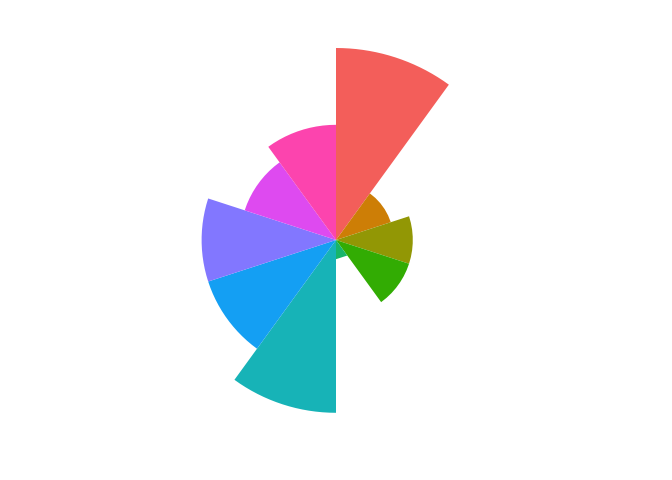
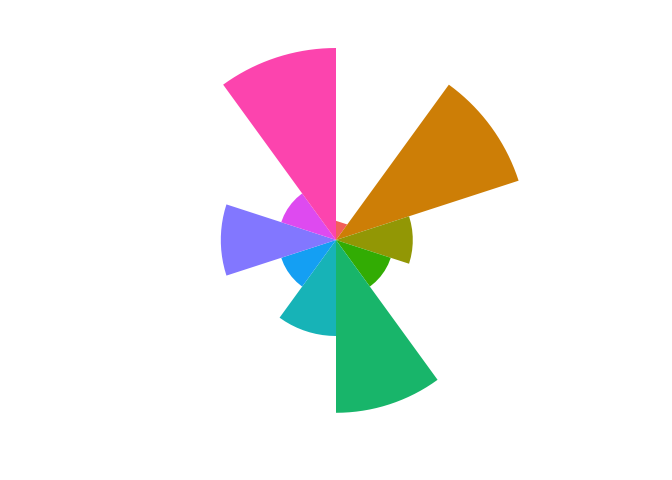
add DS_store to gitignore, update bib, knit with new bib and re-create hex sticker

Changed region(s): [[0.3125, 0.0938, 0.7812, 0.4688], [0.2812, 0.3438, 0.6562, 0.875]]

diff --git a/README.md b/README.md
@@ -1,18 +1,11 @@
 
 <!-- README.md is generated from README.Rmd. Please edit that file -->
-
 <!-- Spelling -->
-
 <!-- The ABC √ option (upper right on the Rmarkdown console)-->
-
 <!-- Grammar -->
-
 <!-- devtools::install_github("ropenscilabs/gramr") -->
-
 <!-- run_grammar_checker("Hex_sticker.Rmd”) -->
-
 <!-- Print pdf version -->
-
 <!-- rmarkdown::render("README.Rmd", output_format = "pdf_document") -->
 
 # Hex sticker for ethnobotanyR
@@ -20,14 +13,13 @@
 Cory Whitney [CWWhitney](https://github.com/CWWhitney)
 
 Here is a brief walk-through on how to use a version of the `sticker`
-function from `hexSticker` (Yu 2019) to generate the hex sticker for the
-`ethnobotanyR` package (Whitney
-2019).
+function from `hexSticker` (Yu 2021) to generate the hex sticker for the
+`ethnobotanyR` package (Whitney 2021).
 
 <!-- Links: start -->
 
 | Quick Links                                                                                    |
-| :--------------------------------------------------------------------------------------------- |
+|:-----------------------------------------------------------------------------------------------|
 | [**Generate a sticker**](https://github.com/CWWhitney/Hex_%20_stickers#Generate%20a%20sticker) |
 | [**Bordeless sticker**](https://github.com/CWWhitney/Hex_%20_stickers#Bordeless%20sticker)     |
 | [**Small sticker**](https://github.com/CWWhitney/Hex_%20_stickers##Small%20sticker)            |
@@ -35,67 +27,60 @@ function from `hexSticker` (Yu 2019) to generate the hex sticker for the
 <!-- Links: end -->
 
 Create a version of the `sticker` function from `hexSticker`. The new
-function is, quite originally, named
-`hex_sticker`.
+function is, quite originally, named `hex_sticker`.
 
-``` r
-hex_sticker <-function (subplot, s_x = 0.8, s_y = 0.75, s_width = 0.4, s_height = 0.5, 
-    package, p_x = 1, p_y = 1.4, p_color = "#FFFFFF", p_family = "Aller_Rg", 
-    p_size = 8, h_size = 1.2, h_fill = "#1881C2", h_color = "#87B13F", 
-    spotlight = FALSE, l_x = 1, l_y = 0.5, l_width = 3, l_height = 3, 
-    l_alpha = 0.4, url = "", u_x = 1, u_y = 0.08, u_color = "black", 
-    u_family = "Aller_Rg", u_size = 1.5, u_angle = 30, white_around_sticker = FALSE, 
-    ..., filename = paste0(package, ".png"), asp = 1, dpi = 2000) 
-{
-    hex <- ggplot() + geom_hexagon(size = h_size, fill = h_fill, 
-        color = NA)
-    if (inherits(subplot, "character")) {
-        d <- data.frame(x = s_x, y = s_y, image = subplot)
-        sticker <- hex + geom_image(aes_(x = ~x, y = ~y, image = ~image), 
-            d, size = s_width, asp = asp)
+    hex_sticker <-function (subplot, s_x = 0.8, s_y = 0.75, s_width = 0.4, s_height = 0.5, 
+        package, p_x = 1, p_y = 1.4, p_color = "#FFFFFF", p_family = "Aller_Rg", 
+        p_size = 8, h_size = 1.2, h_fill = "#1881C2", h_color = "#87B13F", 
+        spotlight = FALSE, l_x = 1, l_y = 0.5, l_width = 3, l_height = 3, 
+        l_alpha = 0.4, url = "", u_x = 1, u_y = 0.08, u_color = "black", 
+        u_family = "Aller_Rg", u_size = 1.5, u_angle = 30, white_around_sticker = FALSE, 
+        ..., filename = paste0(package, ".png"), asp = 1, dpi = 2000) 
+    {
+        hex <- ggplot() + geom_hexagon(size = h_size, fill = h_fill, 
+            color = NA)
+        if (inherits(subplot, "character")) {
+            d <- data.frame(x = s_x, y = s_y, image = subplot)
+            sticker <- hex + geom_image(aes_(x = ~x, y = ~y, image = ~image), 
+                d, size = s_width, asp = asp)
+        }
+        else {
+            sticker <- hex + geom_subview(subview = subplot, x = s_x, 
+                y = s_y, width = s_width, height = s_height)
+        }
+        sticker <- sticker + geom_hexagon(size = h_size, fill = NA, 
+            color = h_color)
+        if (spotlight) 
+            sticker <- sticker + geom_subview(subview = spotlight(l_alpha), 
+                x = l_x, y = l_y, width = l_width, height = l_height)
+        sticker <- sticker + geom_pkgname(package, p_x, p_y, p_color, 
+            p_family, p_size, ...)
+        sticker <- sticker + geom_url(url, x = u_x, y = u_y, color = u_color, 
+            family = u_family, size = u_size, angle = u_angle)
+        if (white_around_sticker) 
+            sticker <- sticker + white_around_hex(size = h_size)
+        sticker <- sticker + theme_sticker(size = h_size)
+        save_sticker(filename, sticker, dpi = dpi)
+        invisible(sticker)
     }
-    else {
-        sticker <- hex + geom_subview(subview = subplot, x = s_x, 
-            y = s_y, width = s_width, height = s_height)
-    }
-    sticker <- sticker + geom_hexagon(size = h_size, fill = NA, 
-        color = h_color)
-    if (spotlight) 
-        sticker <- sticker + geom_subview(subview = spotlight(l_alpha), 
-            x = l_x, y = l_y, width = l_width, height = l_height)
-    sticker <- sticker + geom_pkgname(package, p_x, p_y, p_color, 
-        p_family, p_size, ...)
-    sticker <- sticker + geom_url(url, x = u_x, y = u_y, color = u_color, 
-        family = u_family, size = u_size, angle = u_angle)
-    if (white_around_sticker) 
-        sticker <- sticker + white_around_hex(size = h_size)
-    sticker <- sticker + theme_sticker(size = h_size)
-    save_sticker(filename, sticker, dpi = dpi)
-    invisible(sticker)
-}
-```
 
 Create a small data set for the plot in the middle of the sticker.
 
-``` r
-eth_data <- data.frame(variable = as.factor(1:10),
-                 value = sample(10, replace = TRUE))
-```
+    eth_data <- data.frame(variable = as.factor(1:10),
+                     value = sample(10, replace = TRUE))
 
 Use the `coord_polar` function from `ggplot2` to make the central chord
-bar plot (Wickham et al. 2019). Different each time this is run.
+bar plot (Wickham et al. 2020). Different each time this is run.
 
-``` r
-ethnobotanyR_sticker <- ggplot(eth_data, 
-  aes(variable, value, fill = variable)) +
-  geom_bar(width = 1, stat = "identity") +
-  scale_y_continuous(breaks = 0:nlevels(eth_data$variable)) +
-  theme_minimal() +
-  coord_polar()+ 
-  theme_void() + 
-  theme_transparent() + 
-  theme(legend.position="none")
-```
+    ethnobotanyR_sticker <- ggplot(eth_data, 
+      aes(variable, value, fill = variable)) +
+      geom_bar(width = 1, stat = "identity") +
+      scale_y_continuous(breaks = 0:nlevels(eth_data$variable)) +
+      theme_minimal() +
+      coord_polar()+ 
+      theme_void() + 
+      theme_transparent() + 
+      theme(legend.position="none")
 
 <img src="README_files/figure-gfm/unnamed-chunk-1-1.png" width="40%" />
 
@@ -104,9 +89,7 @@ ethnobotanyR_sticker <- ggplot(eth_data,
 Generate a png file of the hex sticker using the new `hex_sticker`
 function.
 
-``` r
-hex_sticker(ethnobotanyR_sticker, p_size=6, s_x=1, s_y=.75, s_width=1.5, s_height=1.2, h_fill = "lightgreen", h_color = "forestgreen", p_family = "serif", p_color = "forestgreen", package="ethnobotanyR", url = "CRAN: ethnobotanyR", u_size = 2)
-```
+    hex_sticker(ethnobotanyR_sticker, p_size=6, s_x=1, s_y=.75, s_width=1.5, s_height=1.2, h_fill = "lightgreen", h_color = "forestgreen", p_family = "serif", p_color = "forestgreen", package="ethnobotanyR", url = "CRAN: ethnobotanyR", u_size = 2)
 
 ## Bordeless sticker
 
@@ -122,30 +105,26 @@ hex_sticker(ethnobotanyR_sticker, p_size=6, s_x=1, s_y=.75, s_width=1.5, s_heigh
 
 # Chord diagrams for future stickers
 
-Create a simple chord plot in R (R Core Team 2019) and use colors from
-`RColorBrewer` to fill the connections (Neuwirth
-2014).
+Create a simple chord plot in R (R Core Team 2021) and use colors from
+`RColorBrewer` to fill the connections (Neuwirth 2014).
 
 <img src="README_files/figure-gfm/simple_chord_function-1.png" width="20%" />
 
 The `ethnobotanyR` package also has options for producing chord diagrams
-with (Gu 2019) that may be part of future stickers (Whitney 2019). Here
-is an example with the built-in data set
-`ethnobotanydata`.
+with (Gu 2021) that may be part of future stickers (Whitney 2021). Here
+is an example with the built-in data set `ethnobotanydata`.
 
-``` r
-ethno_chord_plot_sticker_mid <- ethnoChord(ethnobotanydata, by = "sp_name")
-```
+    ethno_chord_plot_sticker_mid <- ethnoChord(ethnobotanydata, by = "sp_name")
 
 ![](README_files/figure-gfm/ethno_chord-1.png)<!-- -->
 
 # References
 
-<div id="refs" class="references">
+<div id="refs" class="references hanging-indent">
 
 <div id="ref-R-circlize">
 
-Gu, Zuguang. 2019. *Circlize: Circular Visualization*.
+Gu, Zuguang. 2021. *Circlize: Circular Visualization*.
 <https://CRAN.R-project.org/package=circlize>.
 
 </div>
@@ -159,7 +138,7 @@ Neuwirth, Erich. 2014. *RColorBrewer: ColorBrewer Palettes*.
 
 <div id="ref-R-base">
 
-R Core Team. 2019. *R: A Language and Environment for Statistical
+R Core Team. 2021. *R: A Language and Environment for Statistical
 Computing*. Vienna, Austria: R Foundation for Statistical Computing.
 <https://www.R-project.org/>.
 
@@ -167,7 +146,7 @@ Computing*. Vienna, Austria: R Foundation for Statistical Computing.
 
 <div id="ref-R-ethnobotanyR">
 
-Whitney, Cory. 2019. *EthnobotanyR: Calculate Quantitative Ethnobotany
+Whitney, Cory. 2021. *EthnobotanyR: Calculate Quantitative Ethnobotany
 Indices*. <https://CRAN.R-project.org/package=ethnobotanyR>.
 
 </div>
@@ -175,16 +154,16 @@ Indices*. <https://CRAN.R-project.org/package=ethnobotanyR>.
 <div id="ref-R-ggplot2">
 
 Wickham, Hadley, Winston Chang, Lionel Henry, Thomas Lin Pedersen,
-Kohske Takahashi, Claus Wilke, Kara Woo, and Hiroaki Yutani. 2019.
-*Ggplot2: Create Elegant Data Visualisations Using the Grammar of
-Graphics*. <https://CRAN.R-project.org/package=ggplot2>.
+Kohske Takahashi, Claus Wilke, Kara Woo, Hiroaki Yutani, and Dewey
+Dunnington. 2020. *Ggplot2: Create Elegant Data Visualisations Using the
+Grammar of Graphics*. <https://CRAN.R-project.org/package=ggplot2>.
 
 </div>
 
 <div id="ref-R-hexSticker">
 
-Yu, Guangchuang. 2019. *HexSticker: Create Hexagon Sticker in R*.
-<https://CRAN.R-project.org/package=hexSticker>.
+Yu, Guangchuang. 2021. *HexSticker: Create Hexagon Sticker in R*.
+<https://github.com/GuangchuangYu/hexSticker>.
 
 </div>
 
